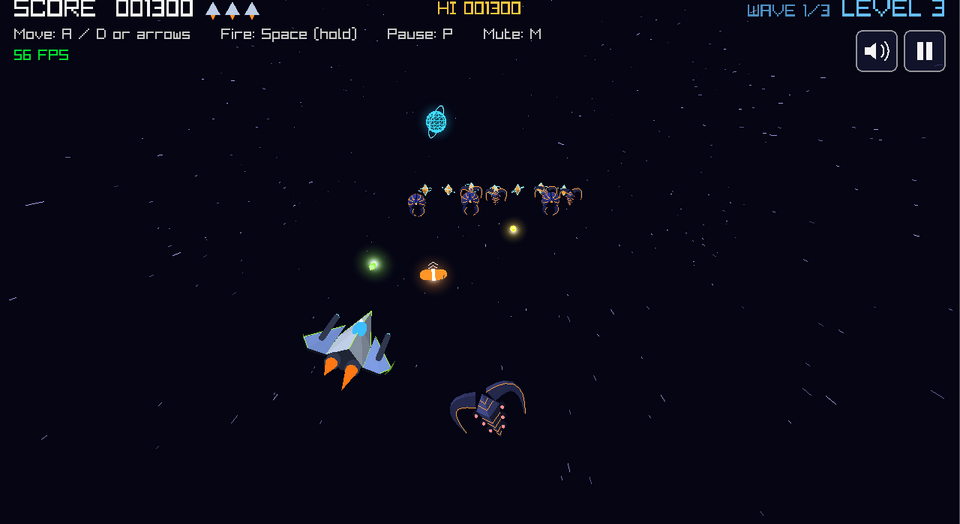
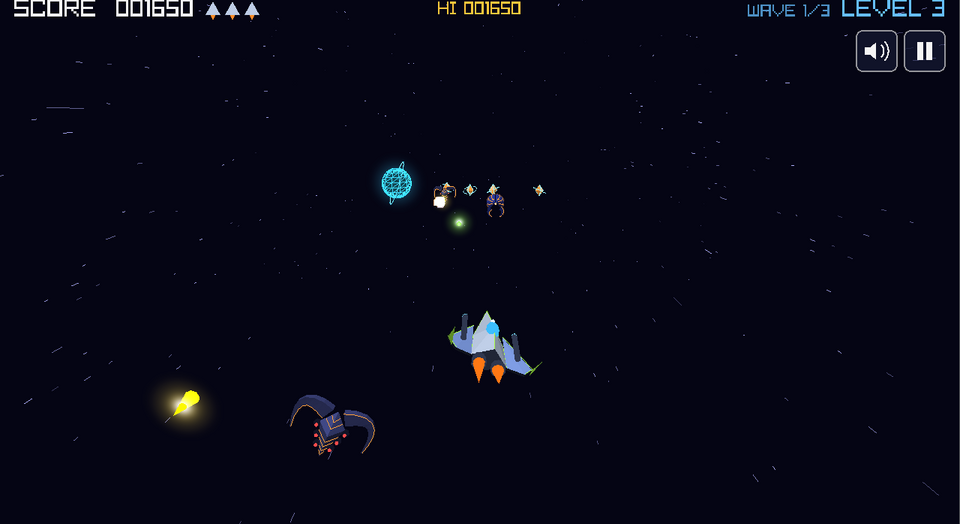
README: boss screenshots and fresh images; lighter boss hit flash

diff --git a/src/Boss.cpp b/src/Boss.cpp
@@ -256,7 +256,7 @@ std::optional<BossHit> Boss::TryHit(Vector3 center, float radius) {
     if (!armour) return std::nullopt;
 
     hitPoints_ -= core ? config::kBossCoreDamage : 1;
-    flash_ = config::kHitFlashTime;
+    flash_ = config::kBossHitFlashTime;
     const bool destroyed = hitPoints_ <= 0;
     if (destroyed) {
         state_ = State::Dying;
@@ -271,7 +271,9 @@ std::optional<BossHit> Boss::TryHit(Vector3 center, float radius) {
 void Boss::Draw() const {
     // Colours of this boss, made from the level's alien colours. A hit flashes
     // everything toward white; when angry the glow flickers toward red.
-    const float flash = flash_ / config::kHitFlashTime;
+    // Only a light tint (at most 35% white): a boss is hit many times a second, and
+    // a full white flash would hide its colours for the whole fight.
+    const float flash = 0.35f * flash_ / config::kBossHitFlashTime;
     const float rage  = Angry() ? 0.5f + 0.5f * std::sin(time_ * 12.0f) : 0.0f;
     const Color glow   = Mix(Mix(glow_, kRed, 0.6f * rage), kWhite, flash);
     const Color shell  = Mix(Mix(body_, kWhite, 0.15f), kWhite, flash);

diff --git a/src/Config.h b/src/Config.h
@@ -276,6 +276,7 @@ constexpr float kBossEnterTime   = 3.0f;    // ... taking this long (it cannot b
 constexpr float kBossCoreCycle   = 6.0f;    // the core opens once every 6 seconds ...
 constexpr float kBossCoreOpen    = 2.5f;    // ... for this long
 constexpr int   kBossCoreDamage  = 3;       // damage of a hit on the open core
+constexpr float kBossHitFlashTime = 0.08f;  // a short, light flash per hit (see Boss::Draw)
 constexpr float kBossDeathTime   = 2.5f;    // the explosions before it is gone
 constexpr float kBossOutroTime   = 3.5f;    // pause after the boss before the next level
 static_assert(std::size(kLevelBoss) == kLevelCount, "bosses: one value per level");

diff --git a/README.md b/README.md
@@ -6,12 +6,18 @@ A 3D remake of my 2D browser game *Space Dash Invaders*, written in **C++17** wi
 [raylib](https://www.raylib.com/). It is also a learning project: the goal is to understand C++ and how
 real-time 3D graphics work, built one small, reviewed step at a time.
 
-![Level 7: the Claw ship against a wave of dark aliens and a cracked, lightning bomb](docs/img/bomb.png)
+![Level 7: the Claw ship with a x4 combo, a cracked lightning bomb above it](docs/img/bomb.png)
 
 | | |
 |---|---|
-| ![Level 3: Reapers, Scarabs and a diving alien](docs/img/action.png) | ![Level 5: the Claw ship firing from its claw tips](docs/img/claw.png) |
+| ![Level 3: a Reaper dives at the ship, a shield power-up floats by](docs/img/action.png) | ![Level 5: the Claw ship firing white-gold rockets into the wave, combo x3](docs/img/claw.png) |
 | ![The title screen](docs/img/menu.png) | ![Aliens and bombs of levels 1 to 7](docs/img/levels.png) |
+
+The three bosses: the **Hive Queen** (level 3), the **War Titan** (level 5) and the **Void Emperor** (level 7):
+
+| | | |
+|---|---|---|
+| ![The Hive Queen fires a fan of shots](docs/img/boss-hive-queen.png) | ![The War Titan's wing guns fire a rain of shots](docs/img/boss-war-titan.png) | ![The Void Emperor sweeps a spiral of shots, its core open](docs/img/boss-void-emperor.png) |
 
 Your ship through the levels:
 
